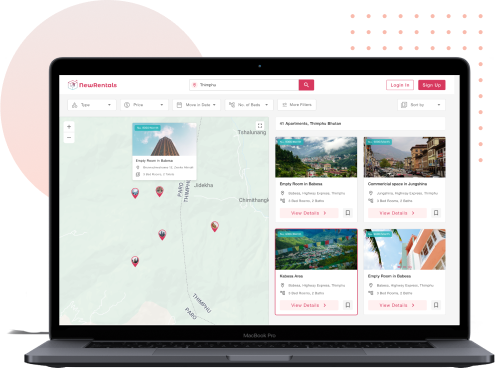
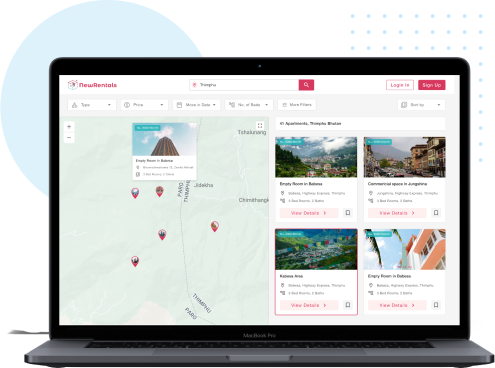
update images

Changed region(s): [[0.0, 0.0897, 0.4242, 0.538]]

diff --git a/css/style.css b/css/style.css
@@ -249,7 +249,7 @@ button {
      content: "";
      width: 0px;
      height: 1px;
-     border: #d7644b solid 1px;
+     border: #25A2B7 solid 1px;
      transition: all 0.2s linear;
      display: block;
      margin-bottom: -16px;
@@ -267,7 +267,7 @@ button {
 }
 
 .read_more:hover {
-     color: #E07D4ECC;
+     color: #25A2B7;
      transition: ease-in all 0.5s;
 }
 
@@ -360,7 +360,7 @@ z-index: 999;
 .navigation.navbar-dark .navbar-nav .nav-link:focus,
 .navigation.navbar-dark .navbar-nav .nav-link:hover {
      color: #fff;
-     background: #E07D4ECC;
+     background: #25A2B7;
 }
 
 .navigation.navbar-dark .navbar-nav .active>.nav-link,
@@ -368,7 +368,7 @@ z-index: 999;
 .navigation.navbar-dark .navbar-nav .nav-link.show,
 .navigation.navbar-dark .navbar-nav .show>.nav-link {
      color: #fff;
-     background: #E07D4ECC;
+     background: #25A2B7;
 }
 
 .di_no {
@@ -445,8 +445,8 @@ ul.email li i {
      animation: textclip 4s linear infinite;
      background-image: linear-gradient(
     -225deg,
-    #00B884 0%,
-    #00B884 29%,
+    #25A2B7 0%,
+    #25A2B7 29%,
     #8b3a04 67%,
     #e5a01f 100%
   );
@@ -511,7 +511,7 @@ ul.email li i {
 #carouselExampleIndicators .carousel-control-next:hover,
 #carouselExampleIndicators .carousel-control-prev:focus,
 #carouselExampleIndicators .carousel-control-prev:hover {
-     background-color: #E07D4ECC;
+     background-color: #25A2B7;
      color: #fff;
 }
 
@@ -545,9 +545,9 @@ ul.email li i {
      border-radius: 10px;
      background: rgba(224, 125, 78, 0.80);
      padding: 32px 24px 24px 24px;
-     background: -moz-linear-gradient(45deg, #2DBAD1 0%, #26c9f2 29%, #E3946A 66%, #ffa079 100%);
-     background: -webkit-linear-gradient(45deg, #2DBAD1 0%,#26c9f2 29%,#E3946A 66%,#ffa079 100%);
-     background: linear-gradient(45deg, #2DBAD1 0%,#2DBAD1 29%,#E3946A 66%,#ffa079 100%);
+     background: -moz-linear-gradient(45deg, #2DBAD1 0%, #26c9f2 29%, #137c8f 66%, #167789 100%);
+     background: -webkit-linear-gradient(45deg, #2DBAD1 0%,#26c9f2 29%,#127789 66%,#177383 100%);
+     background: linear-gradient(45deg, #2DBAD1 0%,#2DBAD1 29%,#25A2B7 66%,#146979 100%);
      background-size: 400% 400%;
      -webkit-animation: Gradient 15s ease infinite;
       -moz-animation: Gradient 15s ease infinite;
@@ -654,7 +654,7 @@ ul.email li i {
      }
 
 .class_box:hover{
-     background: radial-gradient(135.07% 142.42% at 2.15% 102.49%, #E07D4E 0.41%, #D48864 95.31%);
+     background: radial-gradient(135.07% 142.42% at 2.15% 102.49%, #25A2B7 0.41%, #D48864 95.31%);
 }
 .class_box img{
           max-width: 88px;
@@ -705,7 +705,7 @@ ul.email li i {
 .about .container-fluid{
      padding: 80px 0px 80px 0px;
      border-radius: 32px;
-     background: rgba(254, 239, 232, 0.30);
+     background: rgba(238, 249, 254, 0.50);
 }
 .about .titlepage {
      padding-bottom: 0;
@@ -741,14 +741,14 @@ ul.email li i {
 }
 
 .about .read_more {
-     color: #E07D4E;
+     color: #25A2B7;
      font-size: 18px;
      font-weight: 500;
      
 }
 
 .about .read_more:hover {
-     color: #E07D4ECC;
+     color: #25A2B7;
 }
 
 
@@ -795,7 +795,7 @@ ul.email li i {
 
 #myCarousel a.carousel-control-next,
 #myCarousel a.carousel-control-prev {
-     background: #E07D4ECC;
+     background: #25A2B7;
      width: 64px;
      height: 64px;
      top: 112%;
@@ -818,7 +818,7 @@ ul.email li i {
 #myCarousel a.carousel-control-prev:focus,
 #myCarousel a.carousel-control-prev:hover {
      color: #fff;
-     background: #E07D4ECC;
+     background: #25A2B7;
      opacity: 1;
 }
 
@@ -833,7 +833,7 @@ ul.email li i {
 }
 
 .test_box {
-     background: #E07D4ECC;
+     background: #25A2B7;
      border-radius: 20px;
      padding: 0 20px 40px 20px;
 }
@@ -981,11 +981,11 @@ ul.social_icon li a:hover {
 .copyright {
      margin-top: 90px;
      padding-bottom: 25px;
-     background: rgba(224, 125, 78, 0.70);
+     background: rgba(239, 235, 232, 0.7);
 }
 
 .copyright p {
-     color: #fff;
+     color: #171515;
      font-size: 17 px;
      line-height: 22px;
      text-align: center;
@@ -1047,7 +1047,7 @@ ul.social_icon li a:hover {
      font-weight: normal;
      border-radius: 11px;
      border: inherit;
-     box-shadow: 0px 0px 2px 0 #E07D4ECC;
+     box-shadow: 0px 0px 2px 0 #25A2B7;
 }
 
 .custom-select {
@@ -1056,14 +1056,14 @@ ul.social_icon li a:hover {
      font-size: 17px;
      height: 50px;
      border: inherit;
-     box-shadow: 0px 0px 2px 0 #E07D4ECC;
+     box-shadow: 0px 0px 2px 0 #25A2B7;
      margin-bottom: 20px;
      border-radius: 11px;
 }
 
 .custom-select:focus {
      border: inherit;
-     box-shadow: 0px 0px 2px 0 #E07D4ECC;
+     box-shadow: 0px 0px 2px 0 #25A2B7;
 }
 
 .main_form .textarea {
@@ -1077,13 +1077,13 @@ ul.social_icon li a:hover {
      height: 155px;
      border-radius: 11px;
      border: inherit;
-     box-shadow: 0px 0px 2px 0#E07D4ECC;
+     box-shadow: 0px 0px 2px 0#25A2B7;
 }
 
 .main_form .send_btn {
      font-size: 18px;
      transition: ease-in all 0.5s;
-     background-color: #E07D4ECC;
+     background-color: #25A2B7;
      text-transform: uppercase;
      color: #fff;
      max-width: 193px;

diff --git a/index.html b/index.html
@@ -151,7 +151,7 @@
       <div class="row d_flex">
          <div class="col-md-6">
             <div class="about_img text_align_center">
-               <figure><img src="images/newrental.png" alt="#"/></figure>
+               <figure><img src="images/galla.png" alt="#"/></figure>
             </div>
          </div>
         
